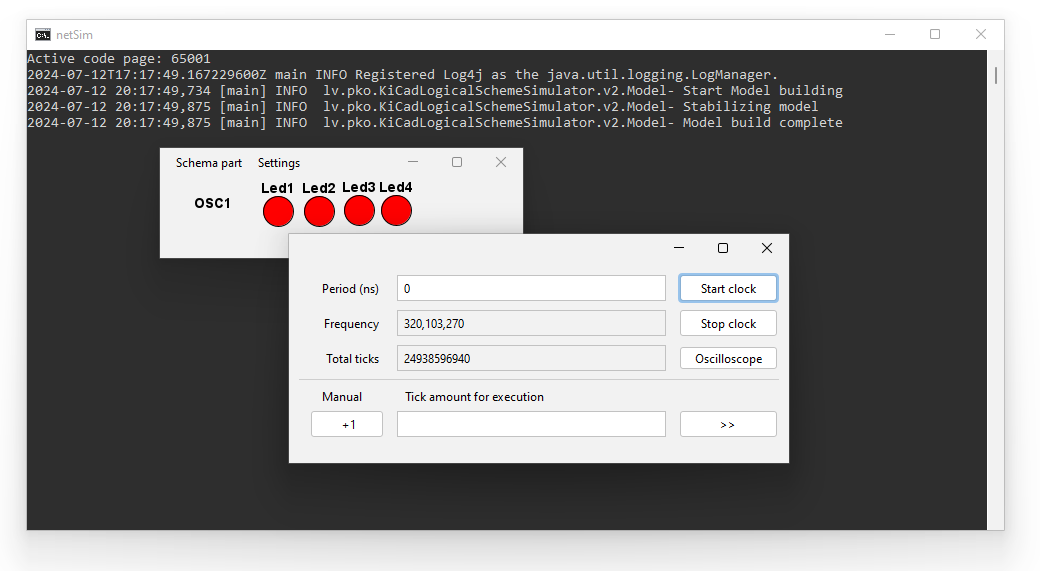
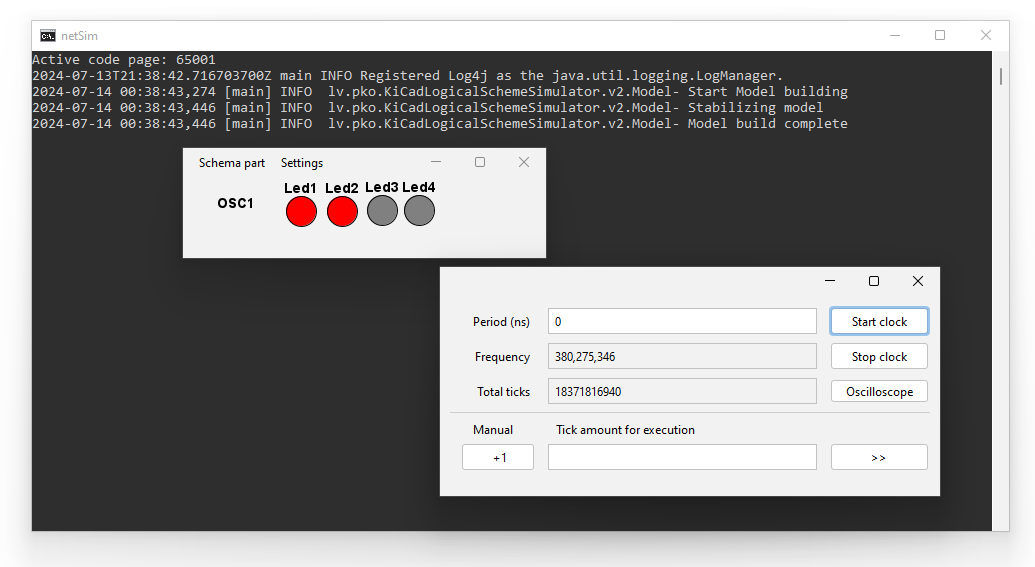
readme

Changed region(s): [[0.0, 0.03, 0.9894, 0.9594]]

diff --git a/stuff/examples/counters/README.md b/stuff/examples/counters/README.md
@@ -2,13 +2,14 @@
 
 **Sequential counters with LED, ideal for speed test.**
 
-On an Intel i-3770s, this schema achieved approximately 320 MHz.
+On an Intel i-3770s, this schema achieved approximately 380 MHz.
 
 ![img.png](img/result.png)
 
-For comparison, [Digital](https://github.com/hneemann/Digital) on the same hardware achieved approximately 50 times less speed.  
+For comparison, [Digital](https://github.com/hneemann/Digital) on the same hardware achieved approximately 70 times less speed.  
 However, it is important to note that [Digital](https://github.com/hneemann/Digital) and this project have different schema building principles,
 which may affect simulation speed.  
-Additionally, this project provides real-time feedback on achieved frequency, while [Digital](https://github.com/hneemann/Digital) doesn't offer this feature.
-
+Additionally, this project provides real-time feedback on achieved frequency,
+while [Digital](https://github.com/hneemann/Digital) doesn't offer this feature.
+This leads to the necessity of using a clock for speed measurement in Digital, which is not very accurate.
 ![Digital](img/digital.png)
